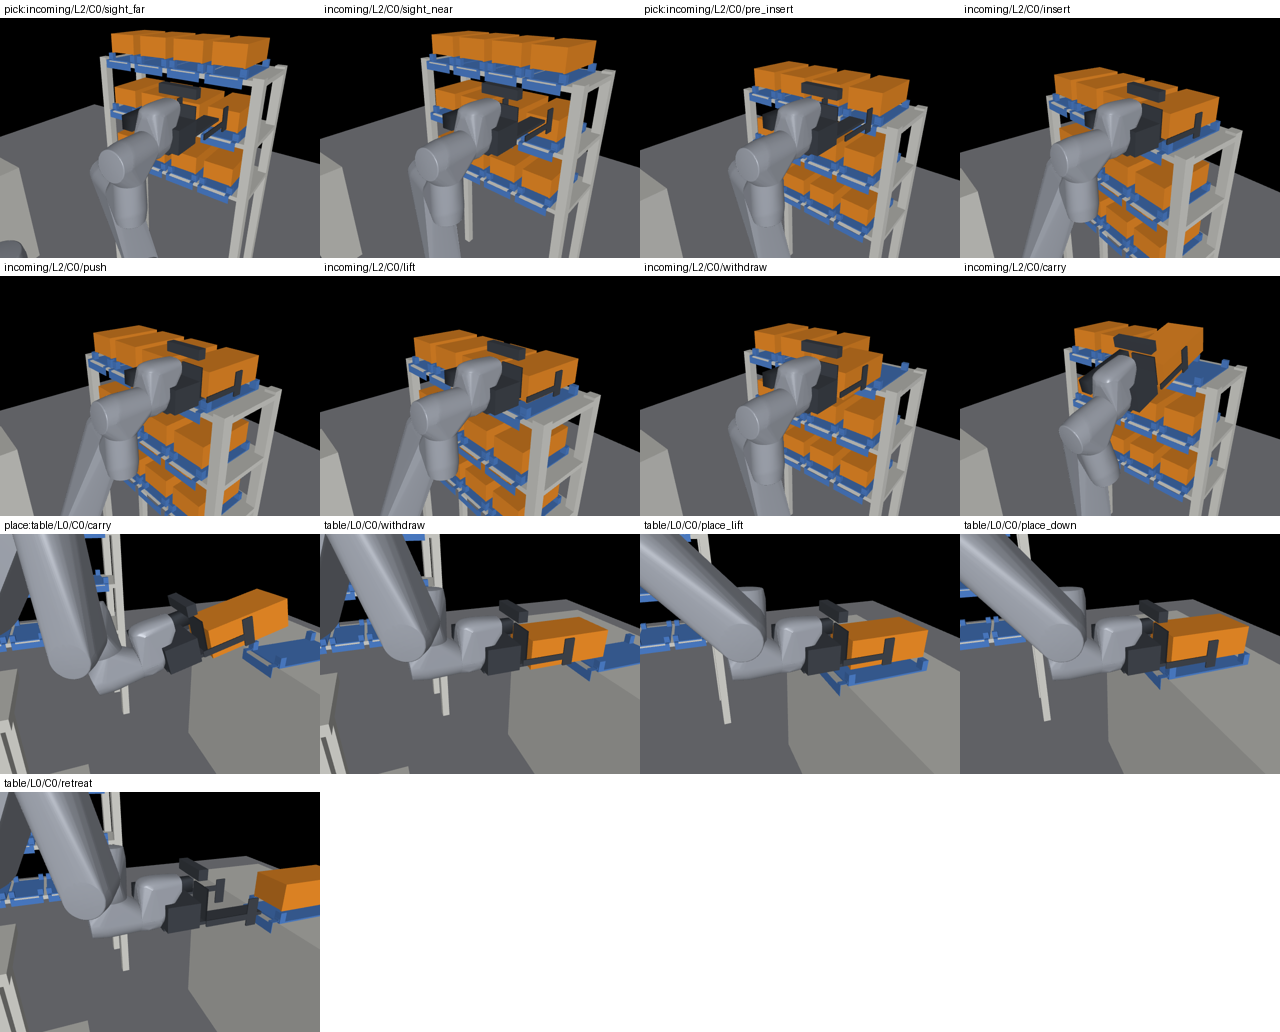
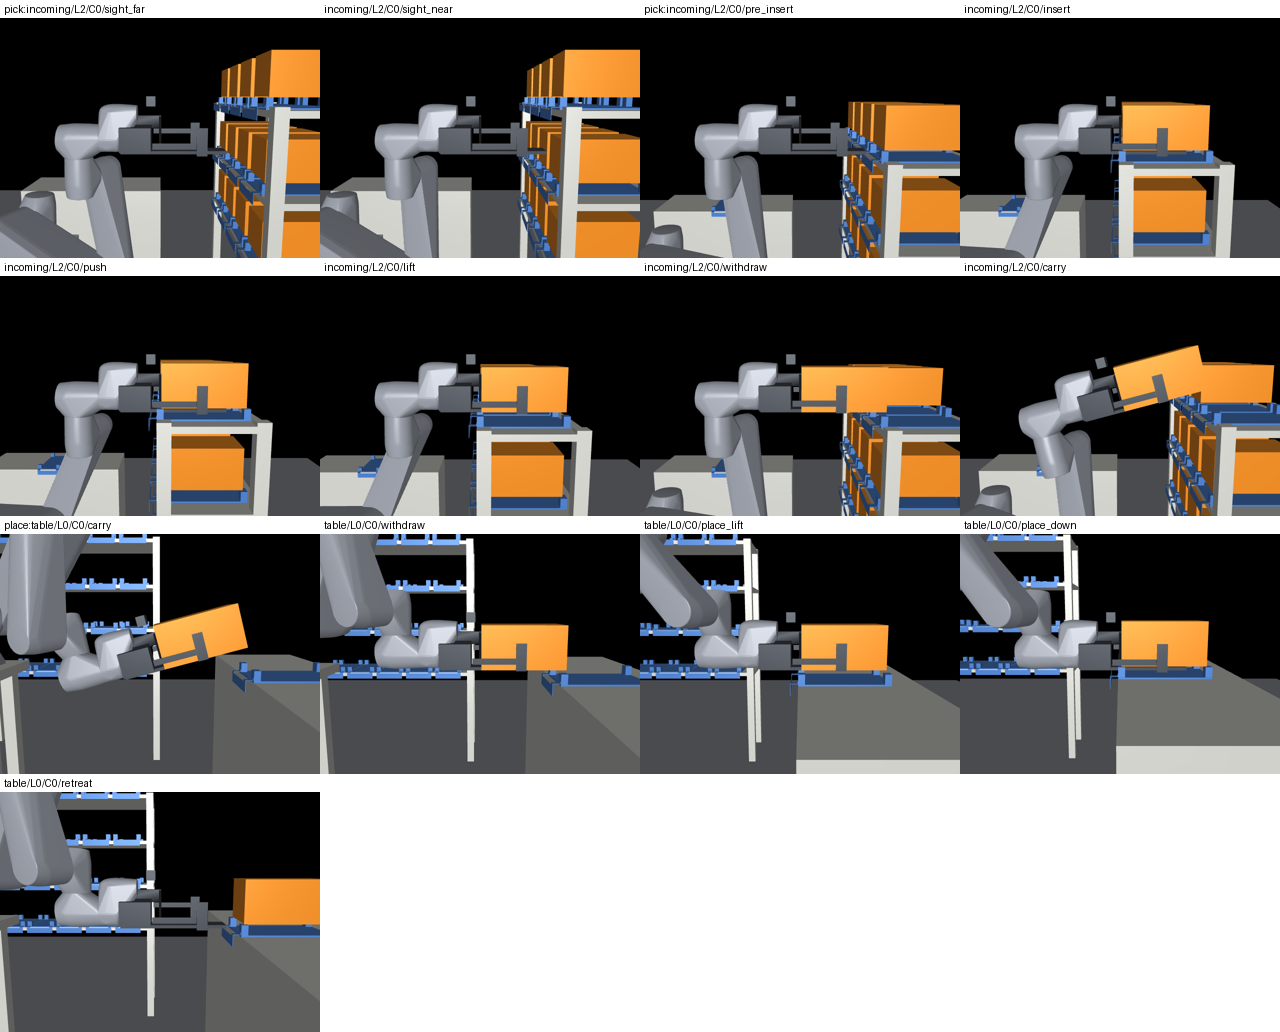
Judge: carry tilt measured in simulation; side-on close-up renders; new GIFs (transfer 1, transfer 6 with the configuration variant)
The previous close-up looked at the gripper along the arm's reach: a tray
pointing roughly along the line of sight looked upright though it lay on the
plate (slip 0.23 mm). The close-up now looks at the tray from its side,
nearly level, so its tilt reads true.

Claude-Session: https://claude.ai/code/session_012d5R3xLpQnBjH2HgdSMxCf

diff --git a/src/rsf/sim/judge.py b/src/rsf/sim/judge.py
@@ -11,7 +11,10 @@ fields) and the plan it executed:
    (during that transfer) and, with its base links, the mount it stands on;
 4. **tracking**: the flange within ``TRACK_MM`` of the plan where the plan is
    slow and close (segments with the ``in_jig`` caps);
-5. **caps**: the carried object's planned motion within the carry caps (D14).
+5. **caps**: the carried object's planned motion within the carry caps (D14);
+6. **carry tilt**: during free carries the object's simulated orientation keeps
+   gravity within ``carry_max_tilt_deg`` (+1 deg) of how it was held when the
+   carry began (user 2026-11-19: handle the tray with care).
 
 A *transfer* is a pick sequence followed by a place sequence in the trajectory
 (``pick:<from>/...``, ``place:<to>/...``). Where the carry begins and ends is
@@ -144,6 +147,7 @@ def judge(world, workflow, rep, occupancy: dict, *, carry_caps=None, traj: Optio
     report's planned flange samples (coarser: a corner between them reads
     differently with every alignment)."""
     planned = _planned_flange(world, traj) if traj is not None else None
+    max_tilt = float(((world.process.get("motion") or {}).get("carry_max_tilt_deg", 15.0)))
     seat_solids = {s.name for s in world.solids(objects=False) if "robot_seat" in s.tags}
     if carry_caps is None:
         mo = (world.process.get("motion") or {}).get("caps", {})
@@ -199,7 +203,21 @@ def judge(world, workflow, rep, occupancy: dict, *, carry_caps=None, traj: Optio
             r["caps_ok"] = (k["v"] <= carry_caps.v * 1.05 and k["a"] <= carry_caps.a * 1.05
                             and k["w"] <= carry_caps.w * 1.05 and k["alpha"] <= carry_caps.alpha * 1.05
                             and k["a_down"] <= carry_caps.a_down * 1.05)
+        # 6. the tray as it was picked up: during free carries, its simulated orientation keeps
+        #    gravity within carry_max_tilt_deg (+1 deg of simulation compliance) of the carry's start
+        tilt = 0.0
+        if tr.obj in rep.objects:
+            for sg in rep.segments:
+                if sg["kind"] == "free" and tr.carry[0] - 1e-9 <= sg["t0"] and sg["t1"] <= tr.carry[1] + 1e-9:
+                    wf = _window(rep, sg["t0"], sg["t1"])
+                    if len(wf):
+                        R = rep.objects[tr.obj][wf][:, :3, :3]
+                        g = np.einsum("nji,j->ni", R, np.array([0.0, 0.0, -1.0]))
+                        c = np.clip(g @ g[0], -1.0, 1.0)
+                        tilt = max(tilt, float(np.degrees(np.arccos(c.min()))))
+        r["carry_tilt_deg"] = tilt
         r["checks"] = {"placement": r["seat_mm"] <= SEAT_MM and r["seat_deg"] <= SEAT_DEG,
+                       "carry_tilt": tilt <= max_tilt + 1.0,
                        "slip": r["slip_mm"] <= SLIP_MM, "contacts": not bad,
                        "tracking": r["track_mm"] <= TRACK_MM, "caps": bool(r["caps_ok"])}
         r["ok"] = all(r["checks"].values())

diff --git a/tools/render_sim.py b/tools/render_sim.py
@@ -79,7 +79,7 @@ def main(argv=None) -> int:
     close, wide = mj.MjvCamera(), mj.MjvCamera()
     wide.lookat[:] = world.robot.base[:3, 3] + np.array([0.0, 0.0, 0.3])
     wide.distance, wide.azimuth, wide.elevation = 2.6, 135.0, -28.0
-    close.distance, close.elevation = 0.8, -25.0
+    close.distance, close.elevation = 0.9, -8.0
     stills = {"close": [], "wide": []}
     gif, next_gif = [], [tr.t0]
 
@@ -94,9 +94,11 @@ def main(argv=None) -> int:
         if t < tr.t0 - 1e-6 or t > tr.t1 + 0.3:
             return
         f = d.xpos[cell.flange_id]
-        close.lookat[:] = f
-        # from the side of the arm's reach: radial direction + 70 deg, so the arm hides nothing
-        close.azimuth = float(np.degrees(np.arctan2(f[1] - base[1], f[0] - base[0]))) + 70.0
+        z = d.xmat[cell.flange_id].reshape(3, 3)[:, 2]          # the plate's long axis (approach)
+        close.lookat[:] = f + 0.12 * z
+        # from the tray's side, nearly level: a level tray looks level and its tilt reads true
+        # (a view along the tray foreshortens it and can make it look upright)
+        close.azimuth = float(np.degrees(np.arctan2(z[1], z[0]))) + 90.0
         for ts, label in shots.items():
             if ts not in taken and t >= ts - 1e-9:
                 taken.add(ts)

diff --git a/tools/sim_workflow.py b/tools/sim_workflow.py
@@ -66,7 +66,7 @@ def main(argv=None) -> int:
     for t in res["transfers"]:
         ch = " ".join(f"{k}:{'ok' if v else 'FAIL'}" for k, v in t["checks"].items())
         print(f"{'PASS' if t['ok'] else 'FAIL'} {t['src']} -> {t['dst']}: seat {t['seat_mm']:.2f} mm / {t['seat_deg']:.2f} deg, "
-              f"slip {t['slip_mm']:.2f} mm, track {t['track_mm']:.2f} mm  [{ch}]")
+              f"slip {t['slip_mm']:.2f} mm, track {t['track_mm']:.2f} mm, carry tilt {t['carry_tilt_deg']:.1f} deg  [{ch}]")
         for c in t["contacts"][:5]:
             print(f"     contact {c['link']} vs {c['other']}: {c['n']}x, {c['depth_mm']} mm, t {c['t_first']}..{c['t_last']}")
     for c in res["other_contacts"][:5]:
